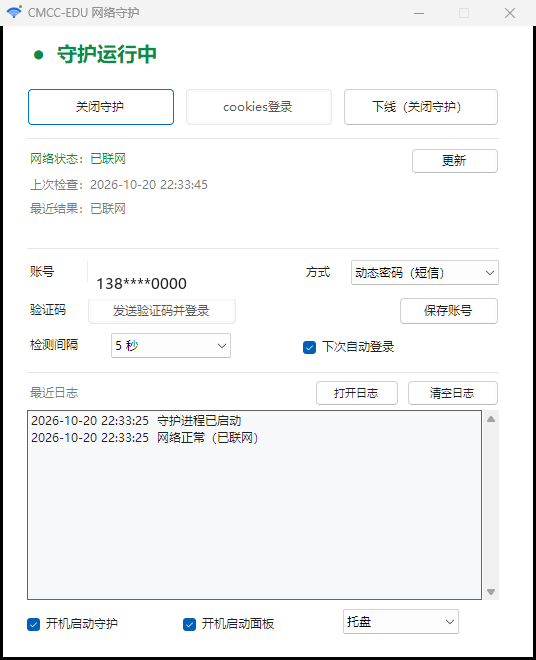
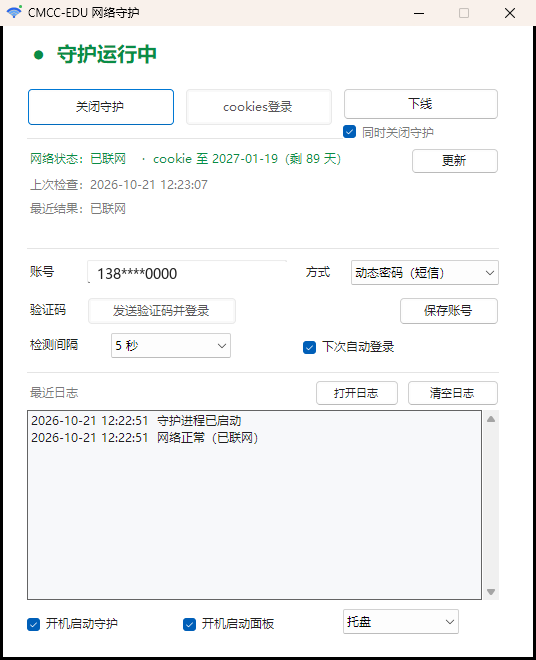
2.0.1: 免密 cookie 自动续期，下线可选关闭守护

diff --git a/src/MainForm.cs b/src/MainForm.cs
@@ -24,6 +24,7 @@ namespace CmccEdu
         // 控件
         private Label _lblState, _lblNet, _lblTime, _lblResult, _lblUser, _lblMode, _lblPass, _lblInterval, _lblLog;
         private Button _btnToggle, _btnCheck, _btnLogout, _btnRefresh, _btnSendCode, _btnSave, _btnStaticLogin, _btnLog, _btnClearLog;
+        private CheckBox _chkStopGuard;
         private TextBox _txtUser, _txtPass, _txtLog;
         private ComboBox _cmbMode, _cmbInterval, _cmbGuiMode;
         private CheckBox _chkAutoLogin, _chkShowPwd, _chkAutoGuard, _chkAutoGui;
@@ -73,7 +74,19 @@ namespace CmccEdu
 
             _btnToggle    = MakeButton("开启守护", 24, 62, 148, 38);
             _btnCheck     = MakeButton("cookies登录", 182, 62, 148, 38);
-            _btnLogout    = MakeButton("下线（关闭守护）", 340, 62, 156, 38);
+            _btnLogout    = MakeButton("下线", 340, 62, 156, 32);
+
+            // 下线时是否连带关闭守护：默认勾选（和旧行为一致，避免下线后几秒被登回去）
+            _chkStopGuard = new CheckBox
+            {
+                Location = new Point(340, 97),
+                Size = new Size(160, 18),
+                Text = "同时关闭守护",
+                Checked = true,
+                ForeColor = CMuted,
+                Font = new Font("微软雅黑", 9f)
+            };
+            Controls.Add(_chkStopGuard);
 
             Controls.Add(MakeDivider(24, 112, 472));
 
@@ -672,16 +685,24 @@ namespace CmccEdu
             _btnLogout.Enabled = false;
             _btnLogout.Text = "下线中…";
 
-            // 先停守护：否则下线断开后它会在几秒内用 cookie 登回去
-            try { Guard.Stop(); } catch (Exception ex) { AppLog.WriteErrorLog("停止守护失败: " + ex.Message); }
-            AppLog.WriteErrorLog("下线：已先停止守护进程");
+            // 勾选了「同时关闭守护」才停：否则下线断开后它会在几秒内用 cookie 登回去
+            bool stopGuard = _chkStopGuard == null || _chkStopGuard.Checked;
+            if (stopGuard)
+            {
+                try { Guard.Stop(); } catch (Exception ex) { AppLog.WriteErrorLog("停止守护失败: " + ex.Message); }
+                AppLog.WriteErrorLog("下线：已先停止守护进程");
+            }
+            else
+            {
+                AppLog.WriteErrorLog("下线：按用户选择保留守护进程");
+            }
 
             LoginSettings settings;
             try { settings = Config.Load().GetLoginSettings(); }
             catch (Exception ex)
             {
                 _btnLogout.Enabled = true;
-                _btnLogout.Text = "下线（关闭守护）";
+                _btnLogout.Text = "下线";
                 MessageBox.Show(ex.Message, "下线结果", MessageBoxButtons.OK, MessageBoxIcon.Warning);
                 return;
             }
@@ -697,7 +718,7 @@ namespace CmccEdu
                     BeginInvoke(new Action(() =>
                     {
                         _btnLogout.Enabled = true;
-                        _btnLogout.Text = "下线（关闭守护）";
+                        _btnLogout.Text = "下线";
                         AppLog.WriteErrorLog("下线结果：" + result.Message);
                         if (result.Ok) Status.Write("offline", result.Message, "logout", 60);
                         RefreshUi();
@@ -818,6 +839,24 @@ namespace CmccEdu
             }
         }
 
+        /// <summary>免密 cookie 的剩余有效期，显示在网络状态后面。</summary>
+        private string CookieHint()
+        {
+            try
+            {
+                string raw = Config.Load().GetString("autoCookiesExpire");
+                if (string.IsNullOrWhiteSpace(raw)) return "";
+                DateTime dt;
+                if (!DateTime.TryParse(raw, out dt)) return "";
+
+                int days = (int)Math.Floor((dt - DateTime.Now).TotalDays);
+                if (days < 0) return "    ·  cookie 已过期（" + dt.ToString("yyyy-MM-dd") + "）";
+                if (days == 0) return "    ·  cookie 今天到期";
+                return "    ·  cookie 至 " + dt.ToString("yyyy-MM-dd") + "（剩 " + days + " 天）";
+            }
+            catch { return ""; }
+        }
+
         private void ApplyStateText(string state)
         {
             switch (state)
@@ -829,6 +868,7 @@ namespace CmccEdu
                 case "error":   _lblNet.Text = "网络状态：异常"; _lblNet.ForeColor = CBad; break;
                 default:        _lblNet.Text = "网络状态：未知"; _lblNet.ForeColor = CMuted; break;
             }
+            _lblNet.Text += CookieHint();
         }
 
         private void RefreshLogPanel()

diff --git a/src/Portal.cs b/src/Portal.cs
@@ -23,6 +23,8 @@ namespace CmccEdu
         public string Kind;     // ok / no-cookie / no-ip / http / not-recognized / rejected / offline / need-manual
         public string Message;
         public string Mode;     // 本次登录实际使用的方式：dynamic / static
+        public string AutoCookies;  // 本次登录服务端新下发的免密 cookie（"k=v; k=v"），没有则为 null
+        public DateTime? AutoCookiesExpire;   // 这批 cookie 的到期时间（服务端给的到期日）
 
         public static LoginResult Fail(string kind, string message)
         {
@@ -446,7 +448,17 @@ namespace CmccEdu
             {
                 for (int i = 0; i < 8; i++)
                 {
-                    if (Network.IsOnline(4)) return LoginResult.Success("认证成功，外网已放行");
+                    if (Network.IsOnline(4))
+                    {
+                        var done = LoginResult.Success("认证成功，外网已放行");
+                        // 完整登录时服务端会重新下发一批 AUTOAUTH_* cookie，
+                        // 有效期是「此刻 + 90 天」。把它们带出去，让上层存回配置，
+                        // 下次就能用最新的一批（滚动续期）。
+                        DateTime? exp;
+                        done.AutoCookies = CollectAutoAuthCookies(out exp);
+                        done.AutoCookiesExpire = exp;
+                        return done;
+                    }
                     Thread.Sleep(900);
                 }
             }
@@ -583,6 +595,34 @@ namespace CmccEdu
             {
                 // 排查用的辅助日志，失败不影响认证
                 AppLog.Write("写认证日志失败: " + ex.Message, "ERR");
+            }
+        }
+
+        /// <summary>把本次会话里服务端下发的 AUTOAUTH_* cookie 拼成 "k=v; k=v"。</summary>
+        private string CollectAutoAuthCookies(out DateTime? expire)
+        {
+            expire = null;   // out 参数必须先赋值，否则 catch 分支编译不过
+            try
+            {
+                var parts = new List<string>();
+                DateTime? maxExp = null;
+                var uri = new Uri(_portalBase);
+                foreach (Cookie ck in _cookies.GetCookies(uri))
+                {
+                    if (!ck.Name.StartsWith("AUTOAUTH_", StringComparison.Ordinal)) continue;
+                    if (string.IsNullOrEmpty(ck.Value)) continue;
+                    parts.Add(ck.Name + "=" + ck.Value);
+                    if (ck.Expires != DateTime.MinValue && (!maxExp.HasValue || ck.Expires > maxExp.Value))
+                        maxExp = ck.Expires;
+                }
+                expire = maxExp;
+                return parts.Count > 0 ? string.Join("; ", parts) : null;
+            }
+            catch (Exception ex)
+            {
+                AppLog.Write("收集新 cookie 失败: " + ex.Message, "ERR");
+                expire = null;
+                return null;
             }
         }
 

diff --git a/src/LoginRunner.cs b/src/LoginRunner.cs
@@ -44,6 +44,7 @@ namespace CmccEdu
                 // 静态密码可以全自动
                 var pr = portal.Login(s, "password", null);
                 pr.Mode = "static";
+                SaveRefreshedCookies(pr);
                 return pr;
             }
         }
@@ -77,6 +78,7 @@ namespace CmccEdu
                     settings.LoginMode = "dynamic";
                     var sms = portal.Login(settings, "sms", prompter);
                     if (sms.Ok) sms.Mode = "dynamic";
+                    SaveRefreshedCookies(sms);
                     return sms;
                 }
 
@@ -88,6 +90,7 @@ namespace CmccEdu
                     settings.LoginMode = "static";
                     var pw = portal.Login(settings, "password", prompter);
                     if (pw.Ok) pw.Mode = "static";
+                    SaveRefreshedCookies(pw);
                     return pw;
                 }
 
@@ -99,6 +102,46 @@ namespace CmccEdu
         {
             using (var portal = new Portal(s.Portal, s.Ssid, s.AcName))
                 return portal.Logout(s);
+        }
+
+        /// <summary>
+        /// 完整登录成功后，把服务端新下发的免密 cookie 存回配置。
+        /// 这批 cookie 的有效期是「登录时刻 + 90 天」，存下来才能滚动续期；
+        /// 不存的话配置里一直是第一次登录的那批，到期就废了。
+        /// </summary>
+        private static void SaveRefreshedCookies(LoginResult r)
+        {
+            if (r == null || !r.Ok) return;
+            if (string.IsNullOrWhiteSpace(r.AutoCookies)) return;
+
+            try
+            {
+                var cfg = Config.Load();
+                string oldEnc = cfg.GetString("autoCookiesEnc");
+                string oldPlain = null;
+                try { oldPlain = Config.Unprotect(oldEnc); } catch { /* 旧值坏了就覆盖 */ }
+
+                // 值没变就不用写盘
+                if (!string.IsNullOrEmpty(oldPlain) && oldPlain == r.AutoCookies)
+                {
+                    AppLog.Write("免密 cookie 未变化，跳过保存", "COOKIE");
+                    return;
+                }
+
+                cfg.SetSecret("autoCookies", "autoCookiesEnc", r.AutoCookies);
+                if (r.AutoCookiesExpire.HasValue)
+                    cfg.SetString("autoCookiesExpire", r.AutoCookiesExpire.Value.ToString("yyyy-MM-dd HH:mm:ss"));
+                cfg.Save();
+
+                string when = r.AutoCookiesExpire.HasValue
+                    ? "，有效期至 " + r.AutoCookiesExpire.Value.ToString("yyyy-MM-dd")
+                    : "";
+                AppLog.Write("已保存本次登录下发的新免密 cookie" + when, "COOKIE");
+            }
+            catch (Exception ex)
+            {
+                AppLog.Write("保存新 cookie 失败: " + ex.Message, "ERR");
+            }
         }
 
         private static LoginSettings Clone(LoginSettings s)

diff --git a/README.md b/README.md
@@ -42,9 +42,9 @@
 | --- | --- |
 | **静态密码登录** | 填一次密码，之后完全自动 |
 | **动态密码登录** | 每次认证时触发短信，输 6 位验证码 |
-| **Cookie 免密** | 勾选过「自动登录」后，认证只需一个 GET，无人值守 |
+| **Cookie 免密** | 勾选过「自动登录」后，认证只需一个 GET，无人值守；登录一次自动续期 90 天 |
 | **断网守护** | 探测到断网自动恢复，网络事件唤醒 + 轮询兜底 |
-| **下线** | 等价于登录页的下线按钮；会先自动停止守护，避免下线后又被登回去 |
+| **下线** | 等价于登录页的下线按钮；可勾选「同时关闭守护」，避免下线后几秒又被登回去 |
 | **开机自启** | 守护和面板两个独立任务，面板可选托盘或任务栏 |
 | **托盘常驻** | 关闭窗口收进托盘，守护继续跑；再双击桌面图标会把面板叫回来 |
 
@@ -78,7 +78,20 @@
 
 ### 4. 想要真正免密
 
-用动态密码成功登录一次（登录时会自动勾选「自动登录」），然后把服务端下发的 4 个 `AUTOAUTH_*` cookie 填进 `config.json` 的 `autoCookies`：
+**不需要手动操作。** 用动态密码成功登录一次（登录时会自动勾选「自动登录」），程序会把服务端下发的 4 个 `AUTOAUTH_*` cookie **自动加密保存**进 `config.json`，同时把到期日记在 `autoCookiesExpire`。
+
+这批 cookie 的有效期是「登录时刻 + 90 天」。面板的网络状态后面会显示剩余天数：
+
+```
+网络状态：已联网    ·  cookie 至 2027-01-19（剩 89 天）
+```
+
+偶尔用短信登录一次，到期日就会自动往后滚 90 天，不需要再做任何手工操作。
+
+<details>
+<summary>应急：自动保存失效时怎么手动填入（一般用不到）</summary>
+
+手动把服务端下发的 4 个 `AUTOAUTH_*` cookie 填进 `config.json` 的 `autoCookies`：
 
 ```json
 "autoCookies": "AUTOAUTH_USERNAME_UNIVERSITY=...; AUTOAUTH_VALPERIOD_UNIVERSITY=...; AUTOAUTH_BOOKTIME_UNIVERSITY=...; AUTOAUTH_APPLYID_UNIVERSITY=..."
@@ -94,7 +107,9 @@
 
 再登录一次，`auth_headers.log` 里就是完整值了。**取完记得删掉这一行**。
 
-机制说明见 [DESIGN.md 第 0.3 节](DESIGN.md)。
+</details>
+
+机制说明见 [DESIGN.md 第 0.5 节](DESIGN.md)。
 
 ---
 
@@ -110,11 +125,12 @@
 | `usernameEnc` | 手机号，DPAPI 加密 |
 | `passwordEnc` | 静态密码，DPAPI 加密（动态模式为空） |
 | `loginMode` | `static` 或 `dynamic`（默认 `dynamic`） |
-| `autoCookiesEnc` | 4 个 `AUTOAUTH_*` cookie，DPAPI 加密 |
+| `autoCookiesEnc` | 4 个 `AUTOAUTH_*` cookie，DPAPI 加密（登录成功后自动更新） |
+| `autoCookiesExpire` | 上述 cookie 的到期时间，登录成功后自动写入，面板据此显示剩余天数 |
 | `autoload` | `checked` 续期自动登录 / `test` 不续期 |
 | `interval` | 探测间隔（秒） |
 | `guiStartMode` | `tray` 或 `taskbar` |
-| `dumpCookies` | 可选调试开关：`true` 时 `auth_headers.log` 写完整 cookie（默认关闭） |
+| `dumpCookies` | 可选调试开关：`true` 时 `auth_headers.log` 写完整 cookie（默认关闭；正常使用不需要） |
 
 **关于凭据加密**：手机号、密码、自动登录 cookie 都用 Windows DPAPI 加密后存储，文件里只有 `dpapi:AQAAANCMnd8...` 这样的密文。
 
@@ -212,6 +228,15 @@ powershell -ExecutionPolicy Bypass -File .\build.ps1
 
 **Q：收不到短信验证码**
 Portal 对发码有 10 分钟冷却，10 分钟内重复点不会发新码。
+
+**Q：免密 cookie 有效期多久，会自己续吗**
+服务端给的有效期是**登录时刻 + 90 天**。每次用短信或密码**完整登录**，都会重新下发一批 cookie，到期日自动往后滚 90 天，程序会把新 cookie 存进配置。cookie 免密登录（只是 GET 一下）**不会**延长有效期。
+
+**Q：面板上「cookie 至 2026-xx-xx」是什么意思**
+就是当前这批免密 cookie 的到期日。显示「已过期」时，说明免密失效了，点「发送验证码并登录」重新登录一次即可，新的 cookie 会自动保存。
+
+**Q：下线后网络又自己连上了**
+下线按钮下方有个「同时关闭守护」的勾选项。不勾的话下线的瞬间守护还在跑，几秒内就会用 cookie 把你登回去。想彻底下线就勾上它。
 
 **Q：换电脑/换校区还能用吗**
 认证页地址和 AC 名会自动从重定向里发现，`acName` 只是兜底。账号密码需要重新填。

diff --git a/DESIGN.md b/DESIGN.md
@@ -106,6 +106,37 @@ while (true) {
 网络事件唤醒：订阅 `NetworkAvailabilityChanged` / `NetworkAddressChanged`，
 睡眠切成 500ms 片，事件触发时立刻醒——不用干等一个完整间隔。
 
+## 0.4.1 免密 cookie 的续期（2.0.1 起自动）
+
+**实测结论**：服务端下发的 4 个 `AUTOAUTH_*` cookie，有效期是「**登录成功那一刻 + 90 天**」。
+
+| 登录时间 | 服务端给的到期日 |
+| --- | --- |
+| 2026-10-20 22:25:57 | 2027-01-18 22:25:57 |
+| 2026-10-21 12:15:29 | 2027-01-19 12:15:29 |
+| 2026-10-21 12:21:03 | 2027-01-19 12:21:03 |
+
+两行都是精确的 +90 天，说明是**滚动有效期**，不是固定到期日。
+
+> 踩过的坑：单日之内连测四次，到期日都是同一天，看起来像「固定到期日」。
+> 跨一天再测才看出差 1 天——**同日样本无法区分「固定」和「滚动」**。
+
+**实现**：
+
+```
+完整登录成功（短信/密码 POST）
+  → 从 CookieContainer 里筛出 4 个 AUTOAUTH_*
+  → 取最大 Expires 作为到期时间
+  → LoginResult.AutoCookies / AutoCookiesExpire
+  → LoginRunner.SaveRefreshedCookies()
+      → 与配置里的旧值比对，相同则跳过
+      → SetSecret("autoCookies", "autoCookiesEnc", ...)
+      → SetString("autoCookiesExpire", ...)
+      → Save()
+```
+
+cookie 免密登录（GET `authServlet`）不会产生新的 Set-Cookie，所以**不续期**——只有完整登录才会。
+
 ## 0.5 与 1.x 的关键差异
 
 | 维度 | 1.x（PowerShell） | 2.x（C#） |
@@ -128,11 +159,13 @@ while (true) {
   "interval": 60,
   "usernameEnc": "dpapi:...",
   "passwordEnc": "dpapi:...",
-  "autoCookiesEnc": "dpapi:..."
+  "autoCookiesEnc": "dpapi:...",
+  "autoCookiesExpire": "2027-01-19 12:21:03"
 }
 ```
 
 - 用「字典读入 → 原样回写」，不认识的键不会被丢弃
+- `autoCookiesExpire` 是明文（只是到期时间，不是凭据），登录成功后自动写入，面板据此显示剩余天数
 - 凭据一律 `dpapi:` 前缀（Windows DPAPI，绑定当前用户）
 - 首次运行没有 `config.json` 时自动生成默认配置
 

diff --git a/CHANGELOG.md b/CHANGELOG.md
@@ -4,6 +4,27 @@
 
 ---
 
+## v2.0.1 — 2026-10-21
+
+**免密 cookie 自动续期，下线行为可选。**
+
+**新增**
+
+- **登录后自动保存新的免密 cookie**：完整登录（短信/密码）成功后，把服务端新下发的 4 个 `AUTOAUTH_*` cookie 自动加密写回 `config.json`，同时记录到期日到 `autoCookiesExpire`。以前需要手动去 `auth_headers.log` 取完整值再手填，现在不用了
+- **面板显示 cookie 有效期**：网络状态后面显示「cookie 至 2027-01-19（剩 89 天）」，剩余 0 天显示「今天到期」，过期显示「已过期」
+- **下线时可选择是否关闭守护**：下线按钮改为「下线」，下方新增「同时关闭守护」勾选项（默认勾选）。不勾选可以只断网、保留守护
+
+**实测结论（文档已更新）**
+
+- 免密 cookie 的有效期是「**登录时刻 + 90 天**」，是滚动有效期：每次完整登录都会重新计时
+- cookie 免密登录（只 GET 一次）**不会**续期，只有完整登录才会
+- 单日之内多次登录看起来像固定到期日（同一天 +90 天结果相同），跨天才能测出差异
+
+**修复**
+
+- 新增 `autoCookiesExpire` 配置字段；不认识的键仍然原样保留，与 1.x 配置继续兼容
+
+---
 ## v2.0.0 — 2026-10-20
 
 **用 C# 重写，不再依赖 PowerShell。**

diff --git a/VIBECODING.md b/VIBECODING.md
@@ -47,6 +47,8 @@
 | cookie 免密登录 | 与 PowerShell 版对照测试，退出码、日志、状态文件一致 |
 | 短信登录 | 实测：请求发码 → 手机收到 → 输入 → 认证成功、外网放行 |
 | 下线 | 实测：`GET /logoutServlet?paramStr=` 后外网断开 |
+| 免密 cookie 自动续期 | 实测：两次完整登录间隔 14 小时，到期日从 2027-01-18 变为 2027-01-19（精确 +90 天），配置被自动更新 |
+| 下线可选关闭守护 | 实测：勾选后才停守护，不勾则守护继续跑 |
 | 守护循环 | 实测：起停、状态文件写入、日志格式 |
 | 开机自启 | 实测：计划任务建/查/删 |
 | 界面 | 逐轮截图确认 |
